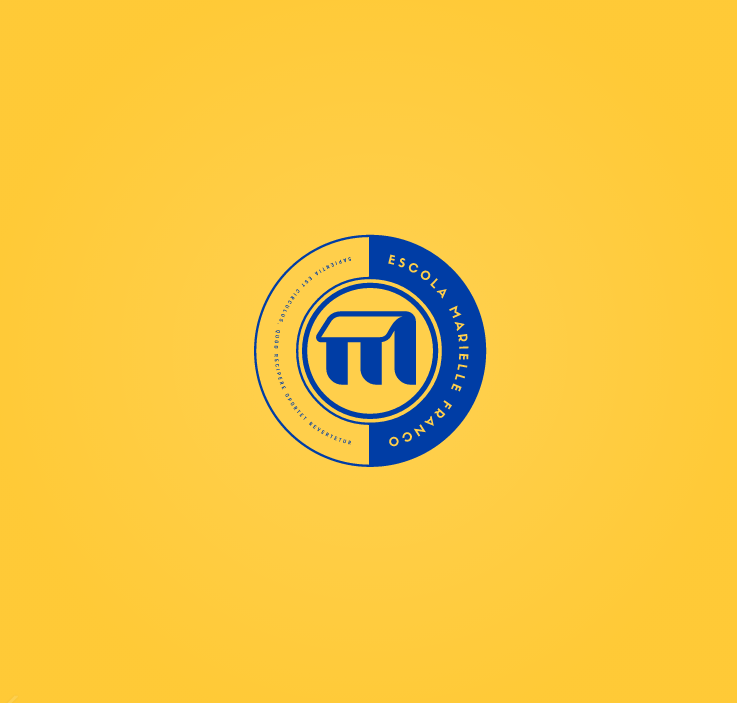
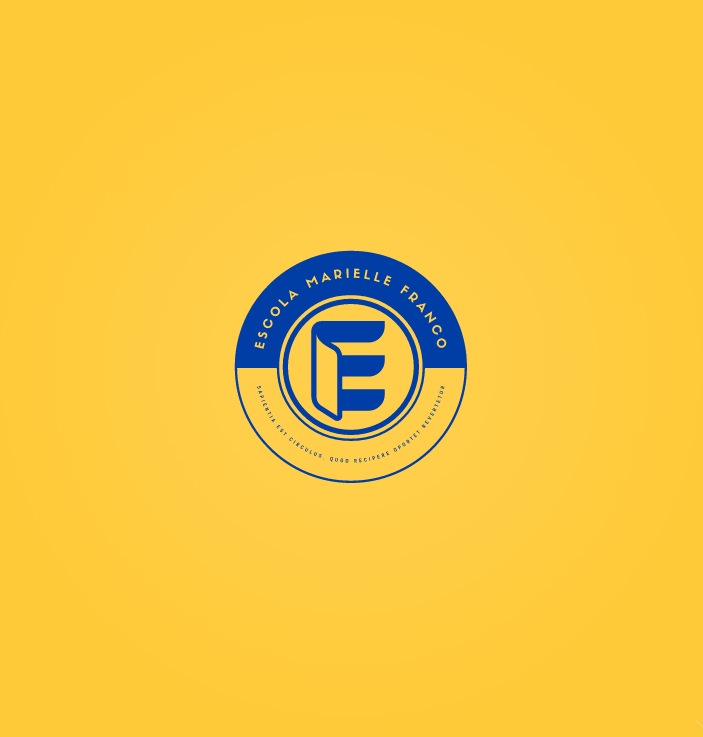
Escola

Changed region(s): [[0.3286, 0.3286, 0.6871, 0.6871]]

diff --git a/index.html b/index.html
@@ -5,21 +5,24 @@
     <meta http-equiv="X-UA-Compatible" content="IE=edge">
     <meta name="viewport" content="width=device-width, initial-scale=1.0">
     <title>Document</title>
+    <link rel="stylesheet" href="./assets/css/style.css">
+    
 </head>
 <body>
+
     <header>
         <div class="container">
-            <div class="logotipo">
-                <img src="./assets/images/logo.png">
+            <div class="logo">
+                <img src="./assets/images/logo_sem_fundo.png" width="280px" class="img">
             </div>
             <div class="menu">
                 <nav>
                     <ul>
-                        <li>Home</li>
-                        <li>Sobre nôs</li>
-                        <li>Unidades</li>
-                        <li>Seja um Aluno</li>
-                        <li>Contribuições</li>
+                        <a href=""><li>Home</li></a>
+                        <a href=""><li>Sobre nôs</li></a>
+                        <a href=""><li>Unidades</li></a>
+                        <a href=""><li>Seja um Aluno</li></a>
+                        <a href=""><li>Contribuições</li></a>
                     </ul>
                 </nav>
             </div>

diff --git a/assets/css/style.css b/assets/css/style.css
@@ -1,10 +1,41 @@
+@import url('https://fonts.googleapis.com/css2?family=Roboto:wght@700&display=swap');
+
 body{
     margin: 0;
     padding: 0;
+    font-family: 'Roboto', sans-serif;
 }
-
 header{
     display: flex;
     justify-content: center;
-    height: 110px;
+    height: 100px;
+}
+.container{
+    display: flex;
+    justify-content: space-between;
+    background-color: #003F88;
+    margin: 0;
+    width: 100%;
+}
+.logo{
+    display: flex;
+    align-items: center;
+    padding-top: 5px;
+}
+.menu{
+    display: flex;
+    align-items: center;
+    padding-right: 100px;
+    font-size: 15px;
+}
+nav ul, nav li{
+    list-style-type: none;
+    margin: 0;
+    padding: 0;
+    display: flex;
+}
+nav a{
+    text-decoration: none;
+    padding: 10px;
+    color: #FFD500;
 }
